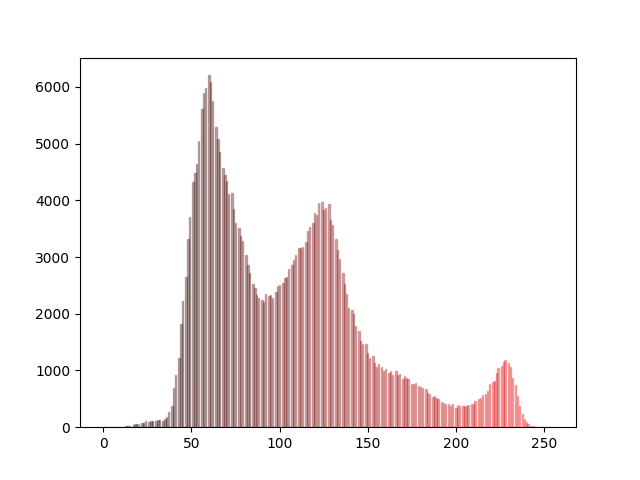
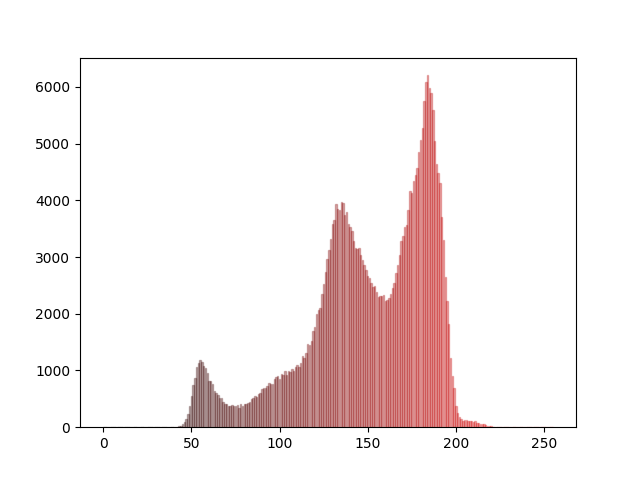
mediana

Changed region(s): [[0.2188, 0.1562, 0.8438, 0.9062]]

diff --git a/ImagesAnalisis/Filtros.py b/ImagesAnalisis/Filtros.py
@@ -2,6 +2,7 @@ from PIL import Image
 import Operaciones
 import matplotlib.pyplot as plt
 import time
+import numpy as np
 '''
 def crearMat(data,size):
     matriz = []
@@ -17,46 +18,67 @@ def crearMat(data,size):
 def crearMat(data,size):
     matriz = []
     c = 0
-    for i in range (size[0]) :
+    for i in range (size[1]) :
         aux = []
-        for j in range ( size[1] ) :
+        for j in range ( size[0] ) :
             aux.append(data[c])
             c+=1
         matriz.append(aux)
     return matriz
-def promediar(matriz, size):
+def promediar(matriz, size, f):
     datosc = []
-    for i in range (size[0]):
-        for j in range(size[1]):
+    for i in range (size[1]):
+        for j in range(size[0]):
           #  pass
-           datosc.append(suma(i,j,matriz,size)) 
+            if f == 0 :
+               datosc.append(suma(i,j,matriz,size,f)) 
+            elif f == 1:
+               datosc.append(suma(i,j,matriz,size,f)) 
     return datosc
 
-def suma(x,y, matriz, size):
+def suma(x,y, matriz, size, f):
     ax = x-1
     ay = y -1
-    lista = []
-    for i in range (ax, ax+3):
-        for j in range (ay, ay+3):
-            
-    '''
+    a = []
+    
     prom = 0.0 
     c = 0
     ax = x-1
-    ay = y -1 
+    ay = y -1
+    if (ax<0 or ax >= size[1]) or (ay<0 or ay >= size[0]):    
+        return 0
     for i in range (ax, ax+3):
         for j in range (ay, ay+3):
             try:
-                if (i>=0 and j>=0):
-                    time.sleep(.01) 
-                    print(str(i)+" , "+str(j))
-                    prom = prom+ matriz[i][j]
-                    c = c+1
+                a.append(matriz[i][j])
             except IndexError:
-                prom = prom
-    
-    return int (prom/c)
-    
+                pass 
+    if f == 0 :
+        if(len(a)>0):
+            return int(sum(a) / len(a))
+        else :
+            return 0
+    elif f ==  1 :
+        #return np.bincount(a).argmax()
+        return int(np.median(a))
+    else :
+        return matriz[x][y]
+    '''
+    for i in range (ax, ax+2):
+        for j in range (ay, ay+2):
+            try:
+                
+                a.append(matriz[i][j])
+            except IndexError:
+                pass
+    return matriz[x][y]
+    if(len(a)>0):
+       # print(sum(a) / len(a) )
+        return int(sum(a) / len(a))
+    else :
+        #print(0)
+        return 0
+
     prom = 0
     c = 0
     rx = range (x-1,x+1)
@@ -73,23 +95,32 @@ def suma(x,y, matriz, size):
     return int(prom/9)
     '''
 
-def pasa_bajas_prom(img):
+def pasa_bajas_prom(image):
     img = image.convert('L')
     datos = img.getdata()
-    print (img.size)
     matriz = crearMat(datos, img.size)
-    datosn = promediar(matriz, img.size)
+    datosn = promediar(matriz, img.size, 0)
     imgg  = Image.new( 'L',img.size )
     imgg.putdata(datosn)
-    imgg.save("filtro-promedio.jpg")
-    imgg.show()
+    imgg.save("inuse.jpg")
+    return imgg
+
+def pasa_bajas_moda(image):
+    img = image.convert('L')
+    datos = img.getdata()
+    matriz = crearMat(datos, img.size)
+    datosn = promediar(matriz, img.size,1)
+    imgg  = Image.new( 'L',img.size )
+    imgg.putdata(datosn)
+    imgg.save("inuse.jpg")
+    return imgg
 
 #analisisimagenesescom
 #image = Image.open("tile.png")
-image = Image.open("snakes.jpg")
+#image = Image.open("snakes.jpg")
 #image.show()
 #histogramaRGB("snakes.jpg")
-pasa_bajas_prom(image)
+#pasa_bajas_moda(image)
 
 
     

diff --git a/ImagesAnalisis/Histograma.py b/ImagesAnalisis/Histograma.py
@@ -44,7 +44,7 @@ def getBlue(blueVal):
     return '#%02x%02x%02x' % (0, 0, blueVal)
 
 def histogramaRGB(image):
-    image.show()
+    #image.show()
     i_size = image.size[0]*image.size[1]
     histogram = image.histogram()
 
@@ -54,7 +54,8 @@ def histogramaRGB(image):
     ml1 = 0.0
     ml2 = 0.0
     ml3 = 0.0
-    plt.figure(0)
+    plt.gcf()
+    #plt.figure(0)
     for i in range(0, 256):
         ml1 = ml1 + l1[i]
         plt.bar(i, l1[i], color = getRed(i), edgecolor=getRed(i), alpha=0.3)
@@ -62,7 +63,7 @@ def histogramaRGB(image):
 
     # G histogram
 
-    plt.figure(1)
+   # plt.figure(1)
 
     for i in range(0, 256):
         ml2 = ml2 + l2[i] 
@@ -71,7 +72,7 @@ def histogramaRGB(image):
 
     # B histogram
 
-    plt.figure(2)
+   # plt.figure(2)
 
     for i in range(0, 256):
         ml3 = ml3 + l3[i]
@@ -92,11 +93,12 @@ def histogramaRGB(image):
 
 def histogramaG(img):
     image = img.convert('L')
-    image.show()
+    #image.show()
     i_size = image.size[0]*image.size[1]
     l1 =  image.histogram()
     ml1=0
-    plt.figure(3)
+    plt.gcf()
+    #plt.figure(3)
     for i in range(len(l1)):
         ml1 = ml1 + l1[i]
         plt.bar(i, l1[i], color = getRed(i), edgecolor=getRed(i), alpha=0.3)
@@ -106,7 +108,7 @@ def histogramaG(img):
     print("     Media "+str(ml1/256))
     print("     Asimetria "+str(asim))
     plt.show()
-
+    return image
 
 def desplazamiento(image,cte):
     img = image.convert('L')
@@ -143,12 +145,14 @@ def expansion(image, cmaximo,cminimo):
     imgg.save("hist-escala-desplazamiento.jpg")
     histogramaG(imgg)
 
-
+'''
 image = Image.open("snakes.jpg")
 
-#histogramaRGB("snakes.jpg")
+histogramaRGB(image)
+
 histogramaG(image)
 #desplazamiento(image,-30)
 contraccion(image,150, 160)
 contraccion(image,0, 255)
 
+'''

diff --git a/ImagesAnalisis/interfaz.py b/ImagesAnalisis/interfaz.py
@@ -2,6 +2,10 @@ import tkinter as tk
 from tkinter import filedialog
 from PIL import ImageTk, Image
 import Ruido
+import Operaciones
+import Histograma
+import Filtros
+
 from Umbral import *
 from time import sleep
 
@@ -50,6 +54,15 @@ def funcion(*argv):
       op = Umbral()
       op.addHistorial(auxF)
       imgF = op.rgb(auxF,argv[1])
+   elif (argv[0]==12):
+      imgF = Image.open(act)
+      Histograma.histogramaRGB(auxF)
+      Histograma.histogramaG(auxF)
+   elif (argv[0]==16):
+      imgF = Filtros.pasa_bajas_prom(auxF)
+   elif (argv[0]==17):
+      imgF =  Filtros.pasa_bajas_moda(auxF)
+
    auxF.close()
    imgF.save(act)
    o_size = imgF.size   #Tamaño original de la imagen
@@ -183,12 +196,15 @@ boton = tk.Button(root, text="Operacion OR", command=funcion).grid(row=6, column
 boton = tk.Button(root, text="Operacion NOT", command=funcion).grid(row=6, column=2)
 
 
-boton = tk.Button(root, text="Histograma", command=funcion).grid(row=7, column=0)
+boton = tk.Button(root, text="Histograma", command=lambda:funcion(12,"12")).grid(row=7, column=0)
 boton = tk.Button(root, text="Desplazamiento del Histograma", command=funcion).grid(row=7, column=1)
 boton = tk.Button(root, text="Contraccion del Histograma", command=funcion).grid(row=7, column=2)
 boton = tk.Button(root, text="Expansion del Histograma", command=funcion).grid(row=7, column=3)
 
-boton = tk.Button(root, text="Restaurar", command=restaurar).grid(row=8, column=0)
+boton = tk.Button(root, text="Filtro Mediana", command=lambda:funcion(16,"16")).grid(row=8, column=0)
+boton = tk.Button(root, text="Filtro Moda", command=lambda:funcion(17,"17")).grid(row=8, column=1)
+
+boton = tk.Button(root, text="Restaurar", command=restaurar).grid(row=12, column=0)
 
 #canvas.pack(fill="both", expand=True)
 '''
